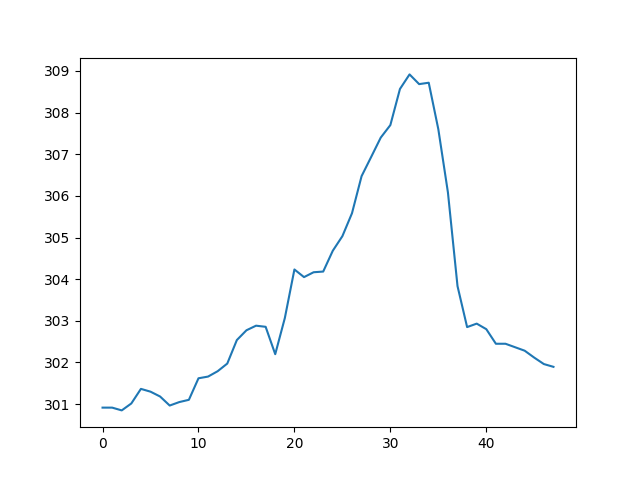
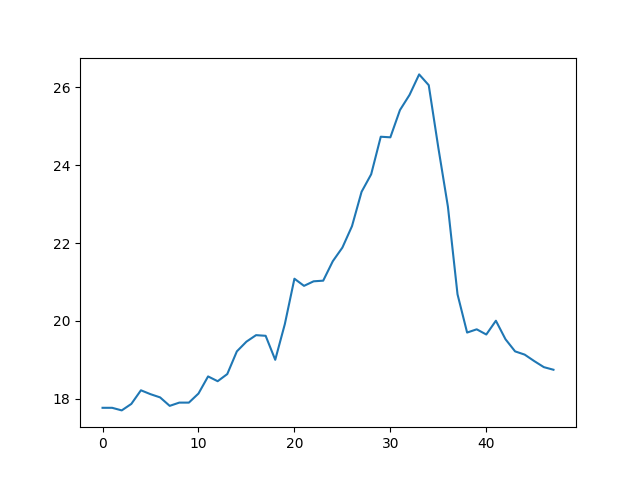
Comprehensive results

diff --git a/DRL/plot_gen.py b/DRL/plot_gen.py
@@ -2,6 +2,7 @@ import scipy.io
 import pudb
 from tqdm import tqdm
 import matplotlib.pyplot as plt
+import math
 
 NUM_ZONES = 7
 all_weather = []
@@ -14,17 +15,47 @@ while True:
 weather_file.close()
 
 zone_temps = []
+zone_temp_diffs = []
 for i in range(NUM_ZONES):
 	zone_temps.append([])
+	zone_temp_diffs.append([])
+
 for i in tqdm(range(0, len(all_weather), 6)):
 	temp_here = list(scipy.io.loadmat("results/Room_Temp_data_"+str(i)+".mat")["y_data"])
+	temp_diff = list(scipy.io.loadmat("results/Temp_Diff_Desire_"+str(i)+".mat")["temp_diff_data"])
 	all_temps = [x[0] for x in temp_here]
+	all_temp_diffs = [x[0] for x in temp_diff]
 	for j in range(NUM_ZONES):
-		zone_temps[j].append(all_temps[j])
+		temp_now = all_temps[j] - 273.15 - 10
+		zone_temps[j].append(temp_now)
+		if temp_now > 25:
+			zone_temp_diffs[j].append(temp_now - 25)
+		elif temp_now < 19:
+			zone_temp_diffs[j].append(19 - temp_now)
+		else:
+			zone_temp_diffs[j].append(0)
+
+
+
 
 for i, zone_temp in enumerate(zone_temps):
 	plt.plot(zone_temp)
 	plt.savefig("results/figs/temp_"+str(i + 1)+".png")
 	plt.clf()
 
+	plt.plot(zone_temp_diffs[i])
+	plt.savefig("results/figs/power_"+str(i + 1)+".png")
+	plt.clf()
 
+	rmse_here = []
+	positions = [x for x in range(1, 9)]
+	for j in range(0, len(zone_temp), 6):
+		here_chunk = zone_temp_diffs[i][j : j + 6]
+		here_chunk_sq = [x*x for x in here_chunk]
+		mean_here = sum(here_chunk_sq) / 6
+		rmse = mean_here ** 0.5
+		rmse_here.append(rmse)
+
+	plt.bar(positions, rmse_here)
+	plt.savefig("results/figs/rmse_"+str(i + 1)+".png")
+	plt.clf()

diff --git a/DRL/data/start3.m b/DRL/data/start3.m
@@ -270,7 +270,7 @@ states_data(:,1)=states;
 for k=1:N_sim;
 	%%%%%%% call controller
 %     to_send = py.list({num2str(states(1)), num2str(states(2)), num2str(states(3)), num2str(states(4)), num2str(states(5)), num2str(states(6)), num2str(states(7))});
-	l = py.caller.hello(py.list({states(1), states(2), states(3), states(4), states(5), states(6), states(7), done}));
+	l = py.caller.connector(py.list({states(1), states(2), states(3), states(4), states(5), states(6), states(7), done}));
     u1 = l{1};
     u2 = l{2};
     u3 = l{3};

diff --git a/DRL/caller.py b/DRL/caller.py
@@ -2,7 +2,7 @@ import socket
 host = socket.gethostbyname("localhost")
 
 
-def hello(states):
+def connector(states):
 	s = []
 	for i in range(7):
 		s.append(socket.socket(socket.AF_INET, socket.SOCK_STREAM))
@@ -24,6 +24,7 @@ def hello(states):
 		print(i)
 		if i != 0:
 			states = [states[-1]] + states[: -1]
+		# states = [x - 10 for x in states]
 		state_str = str(states + [done])[1: -1]
 		port = PORT_MIN + i
 		s[i].connect((host, port))

diff --git a/DRL/driver.py b/DRL/driver.py
@@ -20,7 +20,10 @@ f.write(str(START_PORT_NUM)+"\n")
 f.close()
 
 for i in range(7):
-	print("Starting RL learner at port "+str(START_PORT_NUM + i))
+	if infer:
+		print("Starting RL inference at port "+str(START_PORT_NUM + i))
+	else:
+		print("Starting RL learner at port "+str(START_PORT_NUM + i))
 	if infer:
 		os.system("python3 main.py -p "+str(START_PORT_NUM + i)+" -i &")
 	else:
